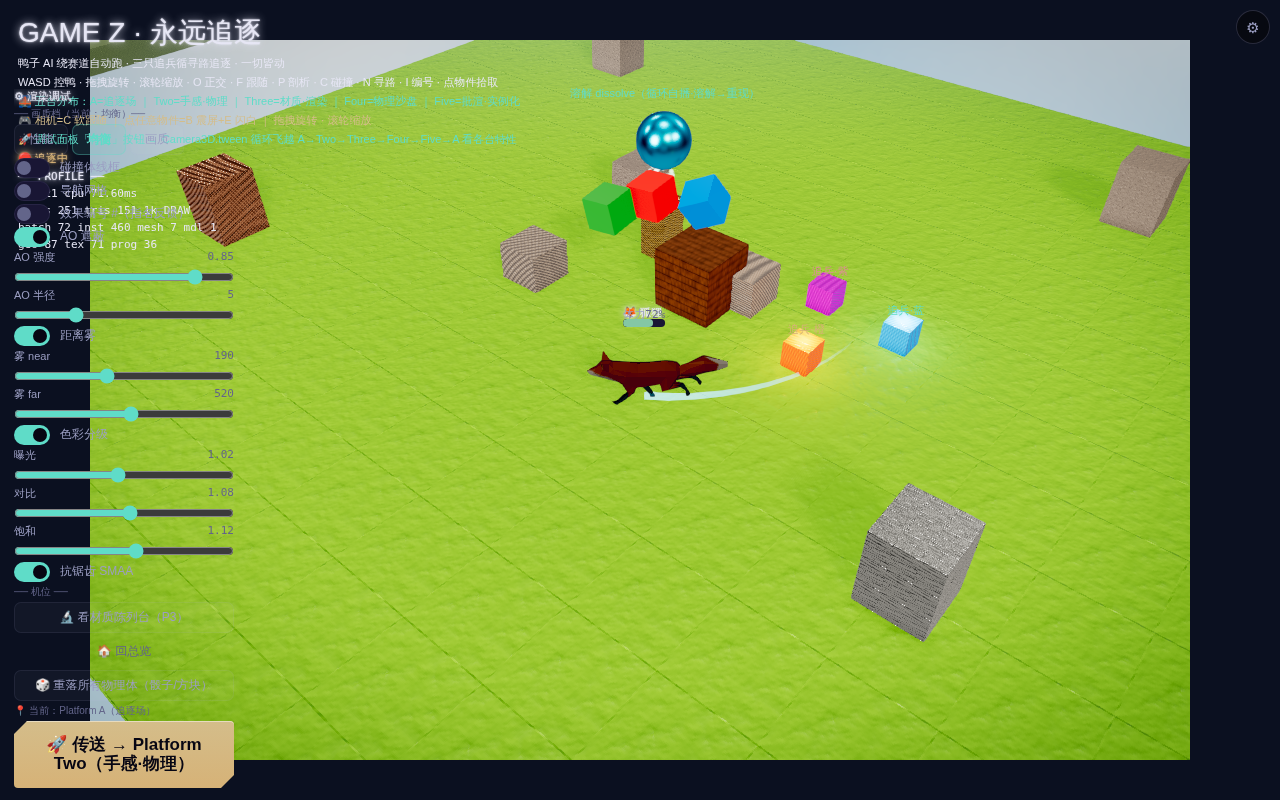
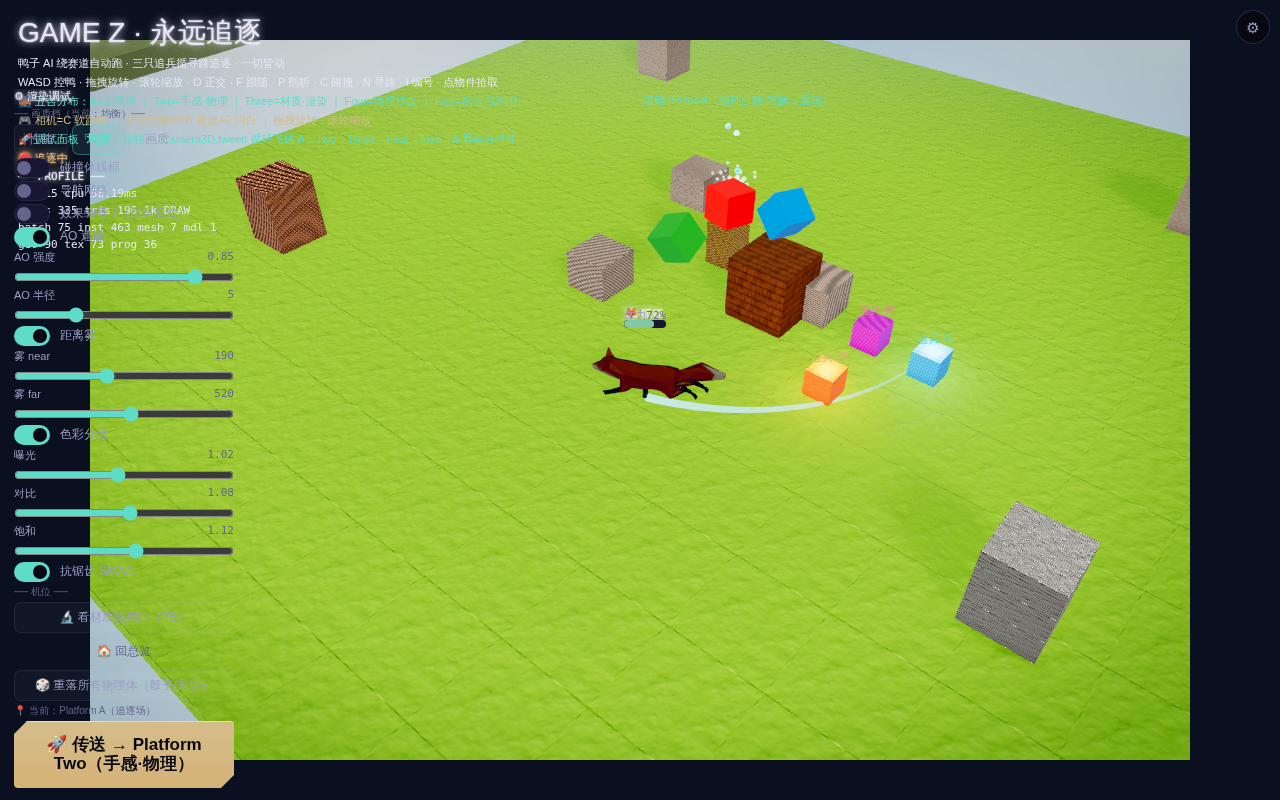
3D：局部光阴影 point/spot 投影（REQ-3D-LOCAL-SHADOW·owner 圈定路线图第三步）
Light3D.castShadow 原只作用主平行光（point/spot 注明 v1 不投影）→ 现让 point/spot 也投影
（three PointLight=立方 6 面阴影·SpotLight=单张透视阴影）。

LightRig 点光分支：castShadow 且投影预算内（MAX_SHADOW_LOCAL=2·point 立方 6× 贵故单列限量）→
开 l.castShadow + 配阴影相机（near 0.5·far=range·bias -0.0006·mapSize 1024）；掉出预算/关 castShadow →
killLocalShadow 回收 cube/spot 阴影贴图（防显存泄漏·RENDERHYG 纪律）。动态局部光预算 MAX_DYNAMIC 2→4
（随投影上线放宽）。脏帧复用现成阴影门：局部光位姿本就在 lightSig → 灯/投影体移动 → shadowSig 变 →
shadowMap.needsUpdate（W1-C·相机/云飘不触发）。

测试 lights.test +2 例（spot castShadow 开→投影·shadow 远面=range·关→回收；投影预算 3 盏只前 2 投影）+
更新 cap 测试（2→4）+ diorama.test 光集加 spot。真浏览器目击 game-z Platform Two p2-spot
（聚光灯照三彩柱 → 地面亮池 + 柱影·local-shadow.png·render-probe 零 console error）。门禁全绿 scope=full。

https://claude.ai/code/session_01HNFstbgQ3KRr7pMdtL5A22

diff --git a/src/renderer/three/lights.ts b/src/renderer/three/lights.ts
@@ -9,7 +9,15 @@ import type { Light3D, Transform3D, Transform } from '@engine/protocol/component
 //  TA Phase 2：point/spot 局部光·**可移动**（挂移动实体随之走）·预算限 2 盏·v1 不投影（accent 光）。
 // ═══════════════════════════════════════════════════════════════
 
-const MAX_DYNAMIC = 2; // 预算：同时最多 2 盏动态 point/spot（owner「一两个就够」）
+const MAX_DYNAMIC = 4; // 预算：同时最多 4 盏动态 point/spot（原 2·随局部光阴影上线放宽·现代 GPU 无压力）
+const MAX_SHADOW_LOCAL = 2; // 投影局部光预算（point 用**立方**阴影 6× 贵·spot 单张·故单列限量）
+const LOCAL_SHADOW_SIZE = 1024; // 局部光阴影贴图边长（比主平行光 2048 小·省 cube 6 面开销）
+
+// 关掉一盏局部光的阴影（切换/移除时回收 shadow map·防显存泄漏·RENDERHYG 纪律）。
+function killLocalShadow(l: THREE.PointLight | THREE.SpotLight): void {
+  if (l.shadow.map) { l.shadow.map.dispose(); l.shadow.map = null; }
+  l.castShadow = false;
+}
 
 export class LightRig {
   readonly key: THREE.DirectionalLight; // 主方向光（盒庭投柔和阴影 + 每帧随场景定位）
@@ -50,13 +58,14 @@ export class LightRig {
       this.ambient.color.setHex(0xbfd2ff); this.ambient.intensity = 0.4;
       this.shadowDir = undefined; // 用盒庭默认侧光向
       for (const [id, l] of this.extraLights) { scene.remove(l); scene.remove(l.target); this.extraLights.delete(id); }
-      for (const [id, l] of this.localLights) { scene.remove(l); if ((l as THREE.SpotLight).target) scene.remove((l as THREE.SpotLight).target); this.localLights.delete(id); }
+      for (const [id, l] of this.localLights) { killLocalShadow(l); scene.remove(l); if ((l as THREE.SpotLight).target) scene.remove((l as THREE.SpotLight).target); this.localLights.delete(id); }
       return;
     }
     this.ambient.intensity = 0; // 数据驱动：默认无环境光（除非 data 给 ambient）
     this.shadowDir = undefined;
     let shadowAssigned = false;
     let dynCount = 0; // 动态 point/spot 预算计数
+    let shadowLocalCount = 0; // 投影局部光预算计数（point 立方阴影贵·限 MAX_SHADOW_LOCAL）
     const live = new Set<string>(); // 额外平行光
     const liveLocal = new Set<string>(); // 局部光
     const sig: string[] = [];
@@ -74,7 +83,7 @@ export class LightRig {
         const isSpot = lt.kind === 'spot';
         let l = this.localLights.get(id);
         if (!l || (isSpot && !(l instanceof THREE.SpotLight)) || (!isSpot && !(l instanceof THREE.PointLight))) {
-          if (l) { scene.remove(l); if ((l as THREE.SpotLight).target) scene.remove((l as THREE.SpotLight).target); }
+          if (l) { killLocalShadow(l); scene.remove(l); if ((l as THREE.SpotLight).target) scene.remove((l as THREE.SpotLight).target); }
           l = isSpot ? new THREE.SpotLight() : new THREE.PointLight();
           scene.add(l); if (isSpot) scene.add((l as THREE.SpotLight).target);
           this.localLights.set(id, l);
@@ -90,8 +99,21 @@ export class LightRig {
           const go = { x: lt.dirX ?? 0, y: lt.dirY ?? -1, z: lt.dirZ ?? 0 };
           s.target.position.set(p.x + go.x, p.y + go.y, p.z + go.z); s.target.updateMatrixWorld();
         }
+        // 局部光阴影（REQ-3D-LOCAL-SHADOW）：castShadow + 预算内 → 投影（point=立方 6 面·spot=单张透视）。
+        const wantShadow = !!lt.castShadow && shadowLocalCount < MAX_SHADOW_LOCAL;
+        if (wantShadow) {
+          shadowLocalCount++;
+          if (!l.castShadow) l.castShadow = true;
+          l.shadow.mapSize.set(LOCAL_SHADOW_SIZE, LOCAL_SHADOW_SIZE);
+          l.shadow.bias = -0.0006;
+          const sc = l.shadow.camera as THREE.PerspectiveCamera;
+          sc.near = 0.5; sc.far = (lt.range && lt.range > 0) ? lt.range : 60; // 阴影视锥远面=光衰减距离（或缺省 60）
+          sc.updateProjectionMatrix();
+        } else if (l.castShadow) {
+          killLocalShadow(l); // 掉出预算/关了 castShadow → 回收 cube/spot 阴影贴图
+        }
         liveLocal.add(id);
-        sig.push(`${id}:${lt.kind}:${lt.color}:${lt.intensity}:${Math.round(p.x)},${Math.round(p.y)},${Math.round(p.z)}:${lt.range ?? ''}`);
+        sig.push(`${id}:${lt.kind}:${lt.color}:${lt.intensity}:${Math.round(p.x)},${Math.round(p.y)},${Math.round(p.z)}:${lt.range ?? ''}:${wantShadow ? 's' : ''}`);
         continue;
       }
       // directional
@@ -115,7 +137,7 @@ export class LightRig {
       sig.push(`${id}:d:${lt.color}:${lt.intensity}:${lt.dirX ?? ''}:${lt.dirY ?? ''}:${lt.dirZ ?? ''}:${lt.castShadow ?? ''}`);
     }
     for (const [id, l] of this.extraLights) if (!live.has(id)) { scene.remove(l); scene.remove(l.target); this.extraLights.delete(id); }
-    for (const [id, l] of this.localLights) if (!liveLocal.has(id)) { scene.remove(l); if ((l as THREE.SpotLight).target) scene.remove((l as THREE.SpotLight).target); this.localLights.delete(id); }
+    for (const [id, l] of this.localLights) if (!liveLocal.has(id)) { killLocalShadow(l); scene.remove(l); if ((l as THREE.SpotLight).target) scene.remove((l as THREE.SpotLight).target); this.localLights.delete(id); }
     this.lightSig = sig.join('|');
   }
 
@@ -137,7 +159,7 @@ export class LightRig {
   dispose(scene: THREE.Scene): void {
     for (const [, l] of this.extraLights) { scene.remove(l); scene.remove(l.target); }
     this.extraLights.clear();
-    for (const [, l] of this.localLights) { scene.remove(l); if ((l as THREE.SpotLight).target) scene.remove((l as THREE.SpotLight).target); }
+    for (const [, l] of this.localLights) { killLocalShadow(l); scene.remove(l); if ((l as THREE.SpotLight).target) scene.remove((l as THREE.SpotLight).target); }
     this.localLights.clear();
   }
 }

diff --git a/src/renderer/three/lights.test.ts b/src/renderer/three/lights.test.ts
@@ -10,13 +10,13 @@ const pointCount = (s: THREE.Scene): number => s.children.filter((c) => c instan
 const point = (i: number, extra: Partial<Light3D>): Light3D => ({ type: 'Light3D', kind: 'point', color: 0xffffff, intensity: 50, range: 20, ...extra }) as Light3D;
 
 describe('LightRig · 动态局部光（TA Phase 2）', () => {
-  it('预算 cap：摆 3 盏 point → 只生效 2 盏', () => {
+  it('预算 cap：摆 6 盏 point → 只生效 4 盏（MAX_DYNAMIC=4）', () => {
     const scene = new THREE.Scene();
     const rig = new LightRig(scene);
     const w = new World();
-    for (let i = 0; i < 3; i++) { w.createEntity(`p${i}`); w.addComponent(`p${i}`, point(i, { x: i, y: 5, z: 0 })); }
+    for (let i = 0; i < 6; i++) { w.createEntity(`p${i}`); w.addComponent(`p${i}`, point(i, { x: i, y: 5, z: 0 })); }
     rig.sync(scene, getLights3D(w), w);
-    expect(pointCount(scene)).toBe(2); // 第 3 盏被预算丢弃
+    expect(pointCount(scene)).toBe(4); // 第 5/6 盏被预算丢弃
   });
 
   it('可移动：挂带 Transform 的实体 → 光读其 2D Transform(x→X,y→Z)+baseY，实体移动则光随之走', () => {
@@ -34,6 +34,36 @@ describe('LightRig · 动态局部光（TA Phase 2）', () => {
     rig.sync(scene, getLights3D(w), w);
     l = scene.children.find((c) => c instanceof THREE.PointLight) as THREE.PointLight;
     expect(l.position.x).toBe(25);
+  });
+
+  it('局部光阴影（REQ-3D-LOCAL-SHADOW）：spot castShadow → 灯投影·阴影视锥远面=range', () => {
+    const scene = new THREE.Scene();
+    const rig = new LightRig(scene);
+    const w = new World();
+    w.createEntity('s');
+    w.addComponent<Light3D>('s', { type: 'Light3D', kind: 'spot', color: 0xffffff, intensity: 800, range: 55, angle: 0.6, castShadow: true, x: 0, y: 20, z: 0, dirY: -1 } as Light3D);
+    rig.sync(scene, getLights3D(w), w);
+    const s = scene.children.find((c) => c instanceof THREE.SpotLight) as THREE.SpotLight;
+    expect(s.castShadow).toBe(true);
+    expect(s.shadow.mapSize.x).toBe(1024);
+    expect((s.shadow.camera as THREE.PerspectiveCamera).far).toBe(55); // 远面=range
+    // 关掉 castShadow → 再 sync → 投影回收
+    w.getComponent<Light3D>('s', 'Light3D')!.castShadow = false;
+    rig.sync(scene, getLights3D(w), w);
+    expect((scene.children.find((c) => c instanceof THREE.SpotLight) as THREE.SpotLight).castShadow).toBe(false);
+  });
+
+  it('投影预算：3 盏 spot 都 castShadow → 只前 2 盏真投影（MAX_SHADOW_LOCAL=2）', () => {
+    const scene = new THREE.Scene();
+    const rig = new LightRig(scene);
+    const w = new World();
+    for (let i = 0; i < 3; i++) {
+      w.createEntity(`s${i}`);
+      w.addComponent<Light3D>(`s${i}`, { type: 'Light3D', kind: 'spot', color: 0xffffff, intensity: 500, range: 40, castShadow: true, x: i * 5, y: 20, z: 0, dirY: -1 } as Light3D);
+    }
+    rig.sync(scene, getLights3D(w), w);
+    const shadowCasters = scene.children.filter((c) => c instanceof THREE.SpotLight && c.castShadow).length;
+    expect(shadowCasters).toBe(2); // 第 3 盏在灯预算内但超投影预算 → 不投影
   });
 
   it('池清理：撤掉 Light3D → 局部光从场景移除', () => {

diff --git a/games/game-z/diorama.test.ts b/games/game-z/diorama.test.ts
@@ -63,11 +63,12 @@ describe('Game Z · 3D 盒庭蓝图（纯数据 · 仅现成 motion-apply 能力
     const e = new Engine();
     e.load(dioramaBlueprint());
     const lights = getLights3D(e.world);
-    expect(lights.map(([, l]) => l.kind).sort()).toEqual(['ambient', 'directional', 'point', 'point']);
+    expect(lights.map(([, l]) => l.kind).sort()).toEqual(['ambient', 'directional', 'point', 'point', 'spot']); // + Platform Two 投影聚光灯（REQ-3D-LOCAL-SHADOW）
     const sun = lights.find(([, l]) => l.kind === 'directional')?.[1];
     expect(sun?.castShadow).toBe(true);
     expect(sun?.intensity).toBeLessThanOrEqual(1.2); // 曝光收敛：太阳不过亮（owner「太亮·过曝」）
-    expect(lights.filter(([, l]) => l.kind === 'point').length).toBeLessThanOrEqual(2); // 预算：≤2 盏动态局部光
+    expect(lights.filter(([, l]) => l.kind === 'point' || l.kind === 'spot').length).toBeLessThanOrEqual(4); // 预算：≤4 盏动态局部光（MAX_DYNAMIC）
+    expect(lights.find(([, l]) => l.kind === 'spot')?.[1]?.castShadow).toBe(true); // 聚光灯投影（局部光阴影自证）
     const post = getPost3D(e.world);
     expect(post?.ao).toBeTruthy(); // AO 环境光遮蔽（TA Phase 4）已开
     expect(post?.grade).toBeTruthy(); // 色彩分级（TA Phase 4）已开

diff --git a/games/game-z/diorama.ts b/games/game-z/diorama.ts
@@ -181,6 +181,12 @@ function platformTwo(): Record<string, Ent> {
       Line3D: { points: aimArc(X + 20, 1, 16, -6, 9, 12), width: 0.5, color: 0x40e0ff, dash: 1.6, gap: 1.1, blend: 'add' },
       WorldUI3D: { text: '瞄准线 Line3D（虚线）', offsetY: 6, size: 'sm', color: 'jade' },
     },
+    // 局部光阴影（REQ-3D-LOCAL-SHADOW·Light3D.castShadow 现支持 point/spot）：一盏聚光灯从上方斜照三根彩柱 →
+    //   地面投出**清晰扇形柱影**（spot 单张阴影·比 point 立方省）。灯不动=静态影；柱/灯移动 lightSig 变即重算。
+    'p2-spot': { Transform3D: { x: X - 2, y: 26, z: -31 }, Light3D: { kind: 'spot', color: 0xfff0d0, intensity: 3200, range: 70, angle: 0.5, penumbra: 0.2, castShadow: true, dirX: 0, dirY: -1, dirZ: 0 }, WorldUI3D: { text: '局部光阴影 spot castShadow（柱影）', offsetY: 4, size: 'sm', color: 'gold' } },
+    'p2-pil-a': { ...block(X - 12, 6, -32, 3, 12, 3, 0xef5350, 0xc62828), Material3D: { preset: 'plastic', color: 0xef5350 } },
+    'p2-pil-b': { ...block(X - 2, 7, -30, 3, 14, 3, 0x42a5f5, 0x1565c0), Material3D: { preset: 'plastic', color: 0x42a5f5 } },
+    'p2-pil-c': { ...block(X + 8, 5, -33, 3, 10, 3, 0x66bb6a, 0x2e7d32), Material3D: { preset: 'plastic', color: 0x66bb6a } },
   };
 }
 

diff --git a/src/engine/protocol/components/render.ts b/src/engine/protocol/components/render.ts
@@ -342,7 +342,7 @@ export interface Light3D extends Component {
   dirX?: number; // directional 去向 / spot 朝向（渲染器归一化·缺省盒庭暖侧光向）。ambient/point 忽略。
   dirY?: number;
   dirZ?: number;
-  castShadow?: boolean; // directional·是否当主阴影灯（盒庭通常一盏投影·缺省取首盏平行光）。point/spot v1 不投影。
+  castShadow?: boolean; // 是否投影：directional=当主阴影灯（盒庭一盏·缺省取首盏平行光）；point/spot=局部光投影（REQ-3D-LOCAL-SHADOW·预算内·point 立方阴影 6× 贵/spot 单张·缺省不投）。
   // ── point / spot（局部光·**可移动**：缺省读同实体 Transform3D，否则 2D Transform(x→X,y→Z)+baseY；
   //     把 Light3D 挂在移动实体上 → 光随之走）。预算：渲染器限同时 2 盏动态 point/spot。
   x?: number; y?: number; z?: number; // 显式世界位（优先）

diff --git a/docs/workflow/requests-3d.md b/docs/workflow/requests-3d.md
@@ -27,6 +27,9 @@
 
 ---
 
+## REQ-3D-LOCAL-SHADOW · 局部光阴影（point/spot 投影·castShadow 现支持局部光）· [2026-08-10] · owner 从现代渲染路线图圈定「做局部光阴影」→ P3D · status: **✅ done（P3D 2026-08-10·已推·见回执）** · 优先级: P2（owner 明示·局部光落地质感） · 类型: 渲染能力补全（局部光阴影·render-only）
+> **★ P3D 回执（2026-08-10·point/spot castShadow·复用现有阴影门）**：`Light3D.castShadow` 原只作用主平行光（point/spot 注明「v1 不投影」）→ 现让 **point/spot 也投影**（three PointLight=立方 6 面阴影·SpotLight=单张透视阴影）。`LightRig` 点光分支：`castShadow` 且**投影预算内**（`MAX_SHADOW_LOCAL=2`·point 立方 6× 贵故单列限量）→ 开 `l.castShadow` + 配阴影相机（near 0.5·far=range·bias -0.0006·mapSize 1024）；掉出预算/关 castShadow → `killLocalShadow` 回收 cube/spot 阴影贴图（防显存泄漏·RENDERHYG 纪律）。**动态局部光预算 `MAX_DYNAMIC` 2→4**（随投影上线放宽·现代 GPU 无压力）。**脏帧复用现成阴影门**：局部光位姿本就在 `lightSig` → 灯/投影体移动 → `shadowSig` 变 → `shadowMap.needsUpdate`（W1-C·相机/云飘不触发）。投影贴图边长 1024（比主平行光 2048 小·省 cube 6 面）。测试 `lights.test` +2 例（spot castShadow 开→灯投影·shadow 远面=range·关→回收；投影预算 3 盏只前 2 投影）+ 更新 cap 测试（2→4）。真浏览器目击 game-z Platform Two `p2-spot`（聚光灯从上照三彩柱 → 地面亮池 + 柱影·`local-shadow.png`·render-probe 零 console error）。tsc0/vitest/build0/manifest（Light3D 无新字段·castShadow 已有）。**路线图后手待拉动**：体积雾 + 神光。
+
 ## REQ-3D-PLANAR-REFLECT · 平面反射镜面（Reflector3D·镜面地板/水面/冰面）· [2026-08-10] · owner 从现代渲染路线图圈定「做平面反射」→ P3D · status: **✅ done（P3D 2026-08-10·已推·见回执）** · 优先级: P2（owner 明示·华丽反射·casino 镜面大堂/水面） · 类型: 渲染能力补全（平面反射·render-only·新组件）
 > **★ P3D 回执（2026-08-10·three.Reflector RTT·比 SSR 干净）**：新增 **`Reflector3D`** 组件（render-only·NON_DETERMINISTIC·进 component-map 蓝图闭集·manifest 144→145）——挂 `Reflector3D{width,height,color?,opacity?,orientation?,quality?}` + `Transform3D` 即成镜面平面（不需 Mesh3D）。渲染器 `ReflectorSystem`（`three/reflector.ts`·同 Vfx/Dissolve 等 render 子系统先例）每帧建/更新/移除 three.Reflector：每帧把场景从**镜像相机**渲进一张 RTT → 平面照出**真倒影**（无 SSR 屏幕空间噪声/掠射漏光）。`floor`=水平镜（缺省·翻 -90°X·法线+Y）·`wall`=竖直镜。**`opacity<1`**：patch three.Reflector 片元把硬 alpha=1 换成 `uReflOpacity` uniform → 倒影混下方底色＝半反射湿地板。脏帧：镜面不自播（反射随场景/相机变→那些变化本就脏 renderSig）·`contentSig` 让加/删/移/改参数也脏帧。RTT 随实体删除 `dispose`（防显存泄漏·RENDERHYG 纪律）。测试 `reflector.test` 7 例（建/摆位·floor/wall 朝向·color uniform·opacity 片元 patch·纯镜不 patch·删除移除·contentSig）。真浏览器目击 game-z Platform Three `p3-refl`（镜面地板 + 上方红清漆球/青自发光珠/金环三物 → 镜中真倒影·`planar-reflect.png`·render-probe 零 console error=RTT+shader 编译无误）。tsc0/vitest/build0/manifest（+1 组件·已 --update）。**路线图后手待拉动**：局部光阴影、体积雾 + 神光。
 

diff --git a/docs/playbooks/3d.md b/docs/playbooks/3d.md
@@ -37,7 +37,7 @@
 | 震屏（打击/得分/失败反馈） | `Camera3D.shake{trigger,amp,freq,decay}` | 撞击时 **bump `trigger`**（任意变化数）→ trauma 注入·衰减自动回正（缺口 B）·超休闲通用打击感 |
 | 跟随柔化（软跟随/预读） | `Camera3D.follow{lag,lookAhead}`（配 mode:'follow'） | `lag`=平滑滞后秒·`lookAhead`=朝 target 速度预读秒·帧率无关·收敛省帧（缺口 C）·硬贴设 lag:0 |
 | 运镜过渡（平滑切机位/flyby/聚焦） | `Camera3D.tween{trigger,dur,ease}`（设目标机位 + bump trigger） | 世界空间取景 ease（眼位+注视点·含 auto 距离/pivot 解析）·不 bump=硬切（Tier2 缺口·render-only） |
-| 光照 | `Light3D{kind:directional\|ambient\|point}` | 暖白主光投软影 + 冷蓝补光·点光有预算 |
+| 光照 | `Light3D{kind:directional\|ambient\|point\|spot, castShadow?}` | 暖白主光投软影 + 冷蓝补光。**局部光阴影**：point/spot 挂 `castShadow:true` 即投影（REQ-3D-LOCAL-SHADOW·spot=单张/point=立方 6× 贵）。预算：动态 point/spot ≤4 盏（`MAX_DYNAMIC`）·其中投影 ≤2 盏（`MAX_SHADOW_LOCAL`）·超预算静默降级。灯移动 lightSig 变即重算阴影（game-z Platform Two `p2-spot` 柱影样例） |
 | 天空 / 雾 / IBL | `Sky3D{top,bottom,clouds,env,envMap?}`（env=反射强度·envMap=真 HDRI 资产 key）· `Fog3D{color,near,far}` | 天空盒程序化·envMap 走 HDRLoader+PMREM 真反射（缺省/未就绪回退程序化影室）·HDRI ≤2k |
 | 画质/性能提帧 | 渲染器选项 `{antialias,dprCap,shadowMapSize}` + 运行时 `setPixelRatioCap()`/`setShadowMapSize()` | GPU 大头=DPR²×后处理 + 每帧阴影。**降 dprCap(retina 提帧最大单点)** / 阴影 1024 / 关 AO(GTAO 最贵) / 用 SMAA 时 antialias:false。game-z「画质档」性能/均衡/画质样例 |
 | 后处理 | `Post3D{ao,bloom,grade,tiltShift,aa,vignette,flash}` | AO/辉光/分级/移轴/SMAA 全在·脏值 finite 兜底防黑屏；`vignette{intensity,smoothness,color}`=暗角聚焦·`flash{trigger,color,decay}`=命中全屏闪白(bump trigger 触发·缺口 E·共用分级 pass 零额外开销) |
